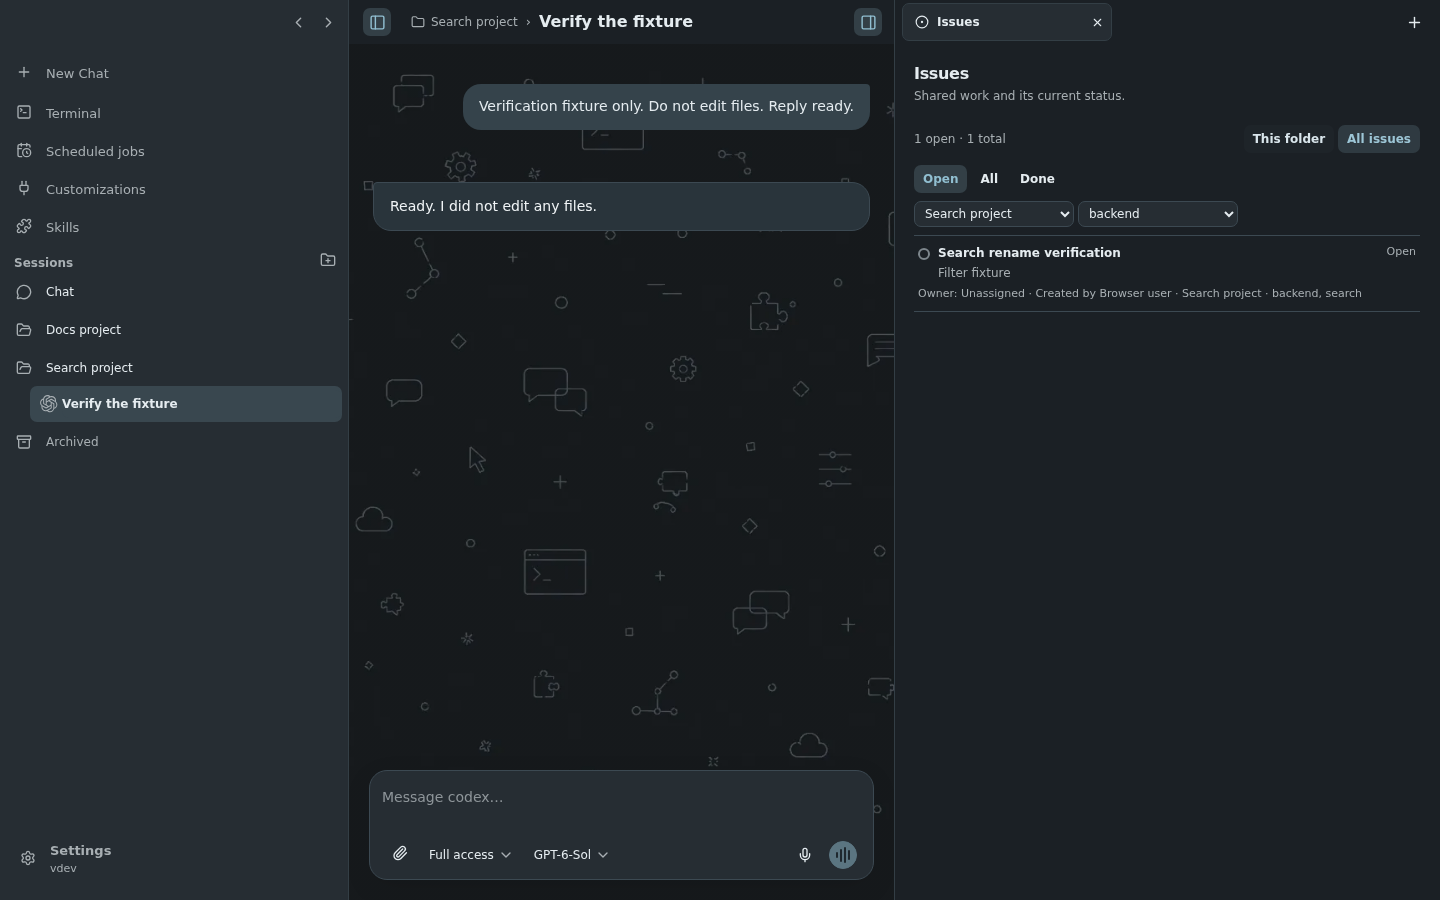
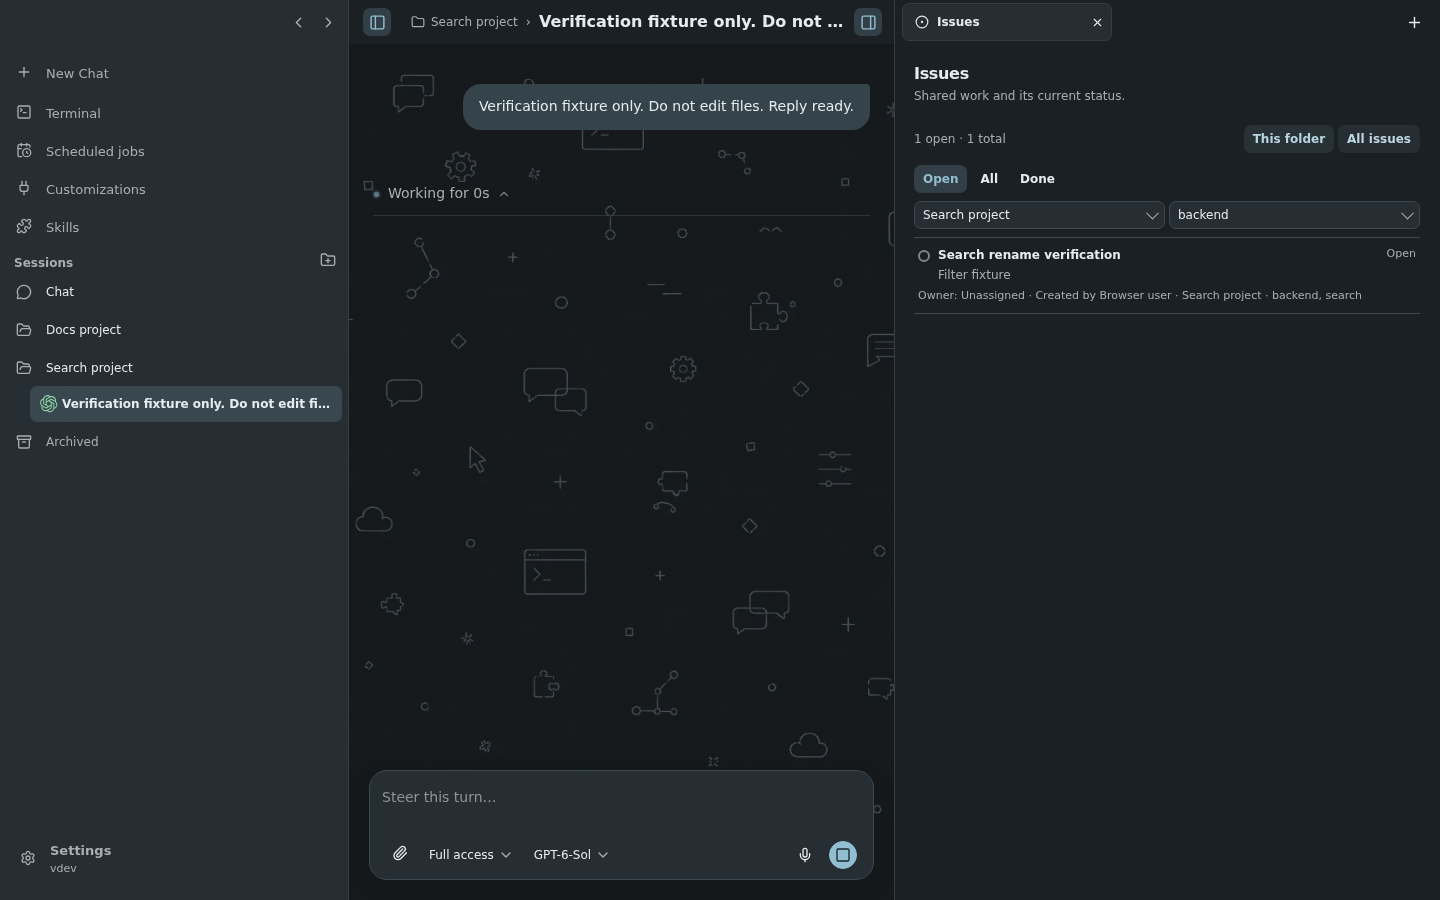
Use shared select controls for Work filters

diff --git a/web/src/components/mux-chat-coordination.ts b/web/src/components/mux-chat-coordination.ts
@@ -4,6 +4,8 @@ import { apiPath } from '../lib/base-path.js';
 import { remoteChatPath } from '../lib/remote-chat-routes.js';
 import { sdkChats } from '../lib/sdk-chats.js';
 import '../ui/button.js';
+import type { MuxUISelect } from '../ui/select.js';
+import '../ui/select.js';
 
 type WorkActor = { kind:'chat' | 'human' | 'external-tool'; sessionId?:string };
 type WorkDispatch = { clientRef:string; sessionId:string; state:string; detail?:string };
@@ -40,7 +42,7 @@ export class MuxChatCoordination extends LitElement {
     .overview .filters { margin-bottom:0; }
     .filters { display:flex; gap:var(--ui-space-2); margin-bottom:var(--ui-space-4); }
     .field-filters { display:flex; flex-wrap:wrap; gap:var(--ui-space-2); margin-bottom:var(--ui-space-4); }
-    .field-filters select { max-width:100%; min-width:10rem; padding:var(--ui-space-2) var(--ui-space-3); border:1px solid var(--ui-border); border-radius:var(--ui-radius-md); background:var(--ui-surface-raised); color:var(--ui-text); font:inherit; }
+    .field-filters mux-ui-select { flex:1 1 var(--ui-dock-tab-min-width); min-width:0; }
     .filter[pressed] { color:var(--ui-accent); }
     .list { border-top:1px solid var(--ui-border); }
     .issue { border-bottom:1px solid var(--ui-border); padding:var(--ui-space-4) var(--ui-space-2); }
@@ -171,7 +173,7 @@ export class MuxChatCoordination extends LitElement {
     const visible = narrowed.filter(item => this.filter === 'all' || (this.filter === 'done' ? item.status === 'done' || item.status === 'cancelled' : item.status !== 'done' && item.status !== 'cancelled'));
     return html`<div class="overview"><p>${openCount} open · ${narrowed.length} total</p><div class="filters" aria-label="Issue scope"><mux-ui-button size="small" variant="quiet" toggle .pressed=${this.scope === 'folder'} @click=${() => this.selectScope('folder')}>${this.projectId ? 'This folder' : 'This chat'}</mux-ui-button><mux-ui-button size="small" variant="quiet" toggle .pressed=${this.scope === 'all'} @click=${() => this.selectScope('all')}>All issues</mux-ui-button></div></div>
       <div class="filters" aria-label="Filter issues">${(['open','all','done'] as const).map(filter => html`<mux-ui-button class="filter" size="small" variant="quiet" toggle .pressed=${this.filter === filter} @click=${() => { this.filter=filter; }}>${filter === 'open' ? 'Open' : filter === 'all' ? 'All' : 'Done'}</mux-ui-button>`)}</div>
-      <div class="field-filters"><select aria-label="Filter by project" .value=${this.projectFilter} @change=${(event:Event) => this.selectProjectFilter((event.target as HTMLSelectElement).value)}><option value="">All projects</option>${projectIds.map(id => html`<option value=${id}>${this.projectName(id)}</option>`)}</select><select aria-label="Filter by label" .value=${this.labelFilter} @change=${(event:Event) => { this.labelFilter=(event.target as HTMLSelectElement).value; }}><option value="">All labels</option>${labels.map(label => html`<option value=${label}>${label}</option>`)}</select></div>
+      <div class="field-filters"><mux-ui-select size="small" aria-label="Filter by project" .value=${this.projectFilter} .options=${[{value:'',label:'All projects'},...projectIds.map(id => ({value:id,label:this.projectName(id)}))]} @change=${(event:Event) => this.selectProjectFilter((event.target as MuxUISelect).value)}></mux-ui-select><mux-ui-select size="small" aria-label="Filter by label" .value=${this.labelFilter} .options=${[{value:'',label:'All labels'},...labels.map(label => ({value:label,label}))]} @change=${(event:Event) => { this.labelFilter=(event.target as MuxUISelect).value; }}></mux-ui-select></div>
       ${visible.length ? html`<div class="list">${visible.map(item => html`<div class="issue"><mux-ui-button class="issue-open" full-width variant="quiet" @click=${() => this.openDetail(item)}><span class="status-dot ${item.status}" aria-hidden="true"></span><span class="issue-main"><strong>${item.title}</strong><span class="summary">${item.waitingOn?.length ? `Waiting on ${item.waitingOn.length} prerequisite${item.waitingOn.length === 1 ? '' : 's'}` : item.nextAction || item.progress || item.brief || 'No progress yet'}</span></span><span class="status">${this.statusName(item.status)}</span></mux-ui-button><span class="meta">Owner: ${this.ownerLabel(item)} · Created by ${this.creatorLabel(item)}${item.dispatch && item.dispatch.state !== 'claimed' ? html` · Kickoff: ${this.dispatchLabel(item)}` : nothing} · ${this.projectNames(item)}${item.labels?.length ? ` · ${item.labels.join(', ')}` : ''}</span></div>`)}</div>` : html`<div class="empty"><strong>${this.work.length ? 'No issues in this view' : 'No issues yet'}</strong>${this.work.length ? 'Choose another filter to see them.' : 'Issues will appear here as agents record shared work.'}</div>`}`;
   }
   private issueDetail() {
